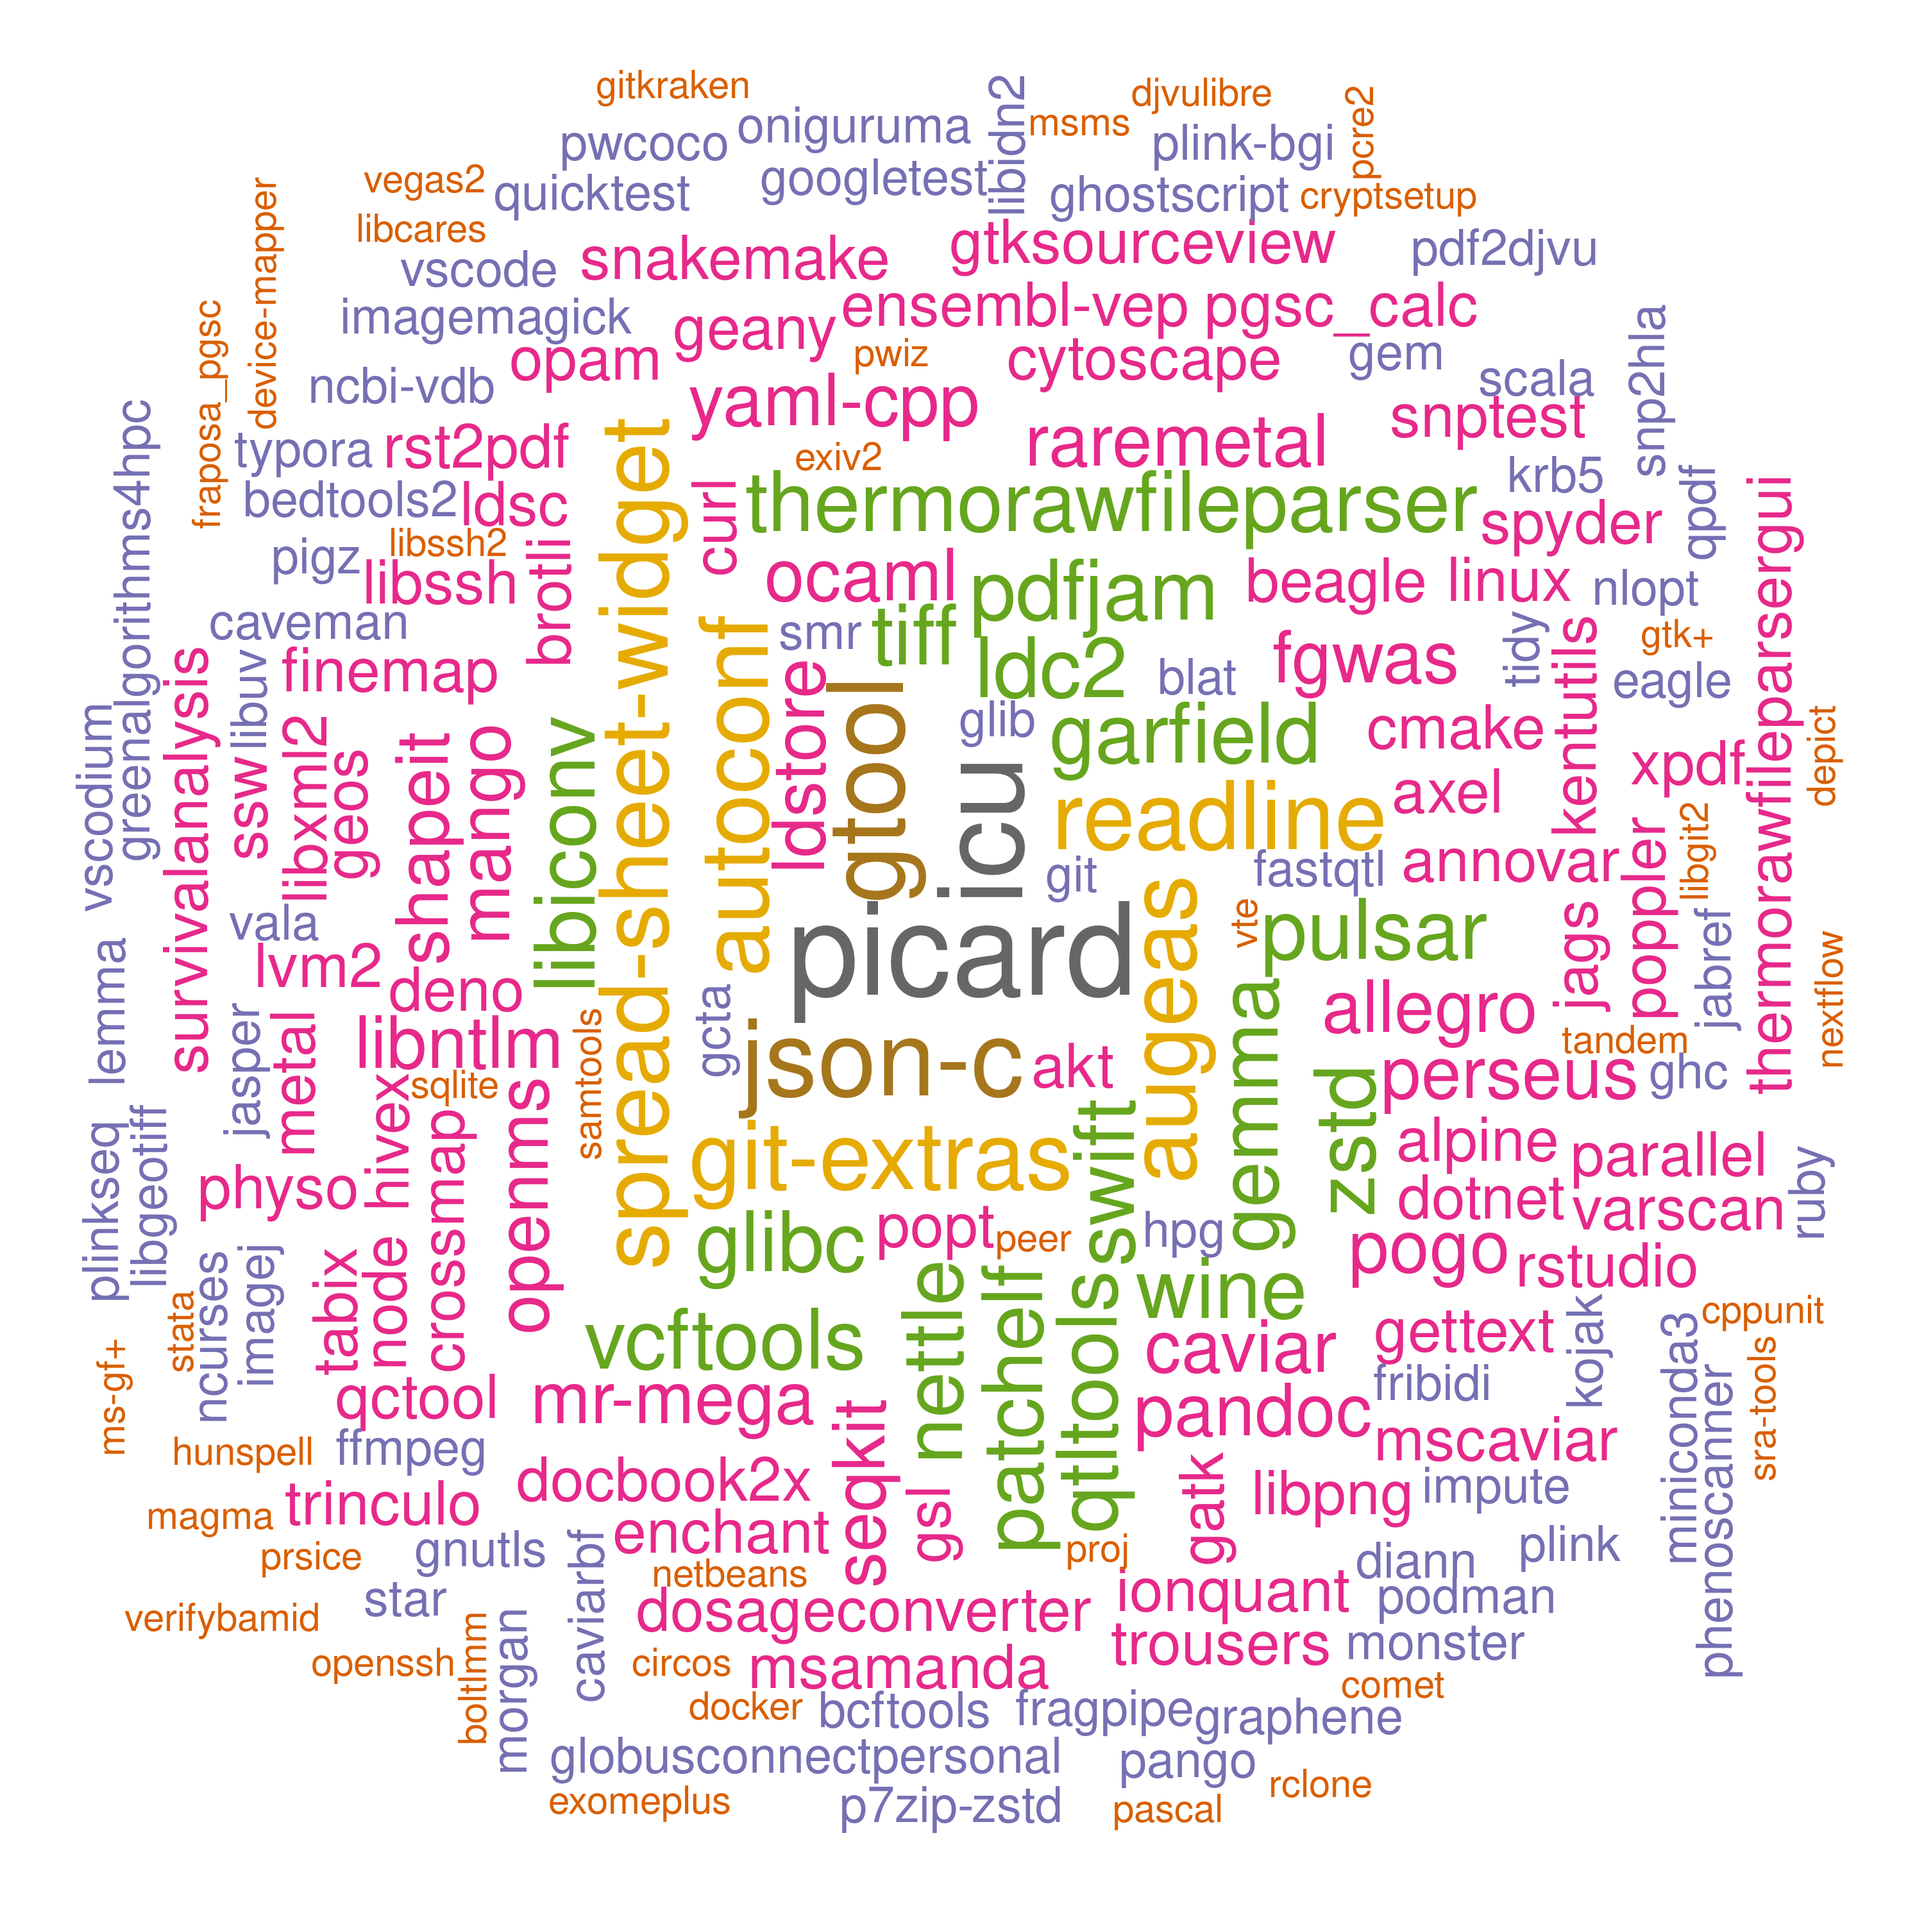
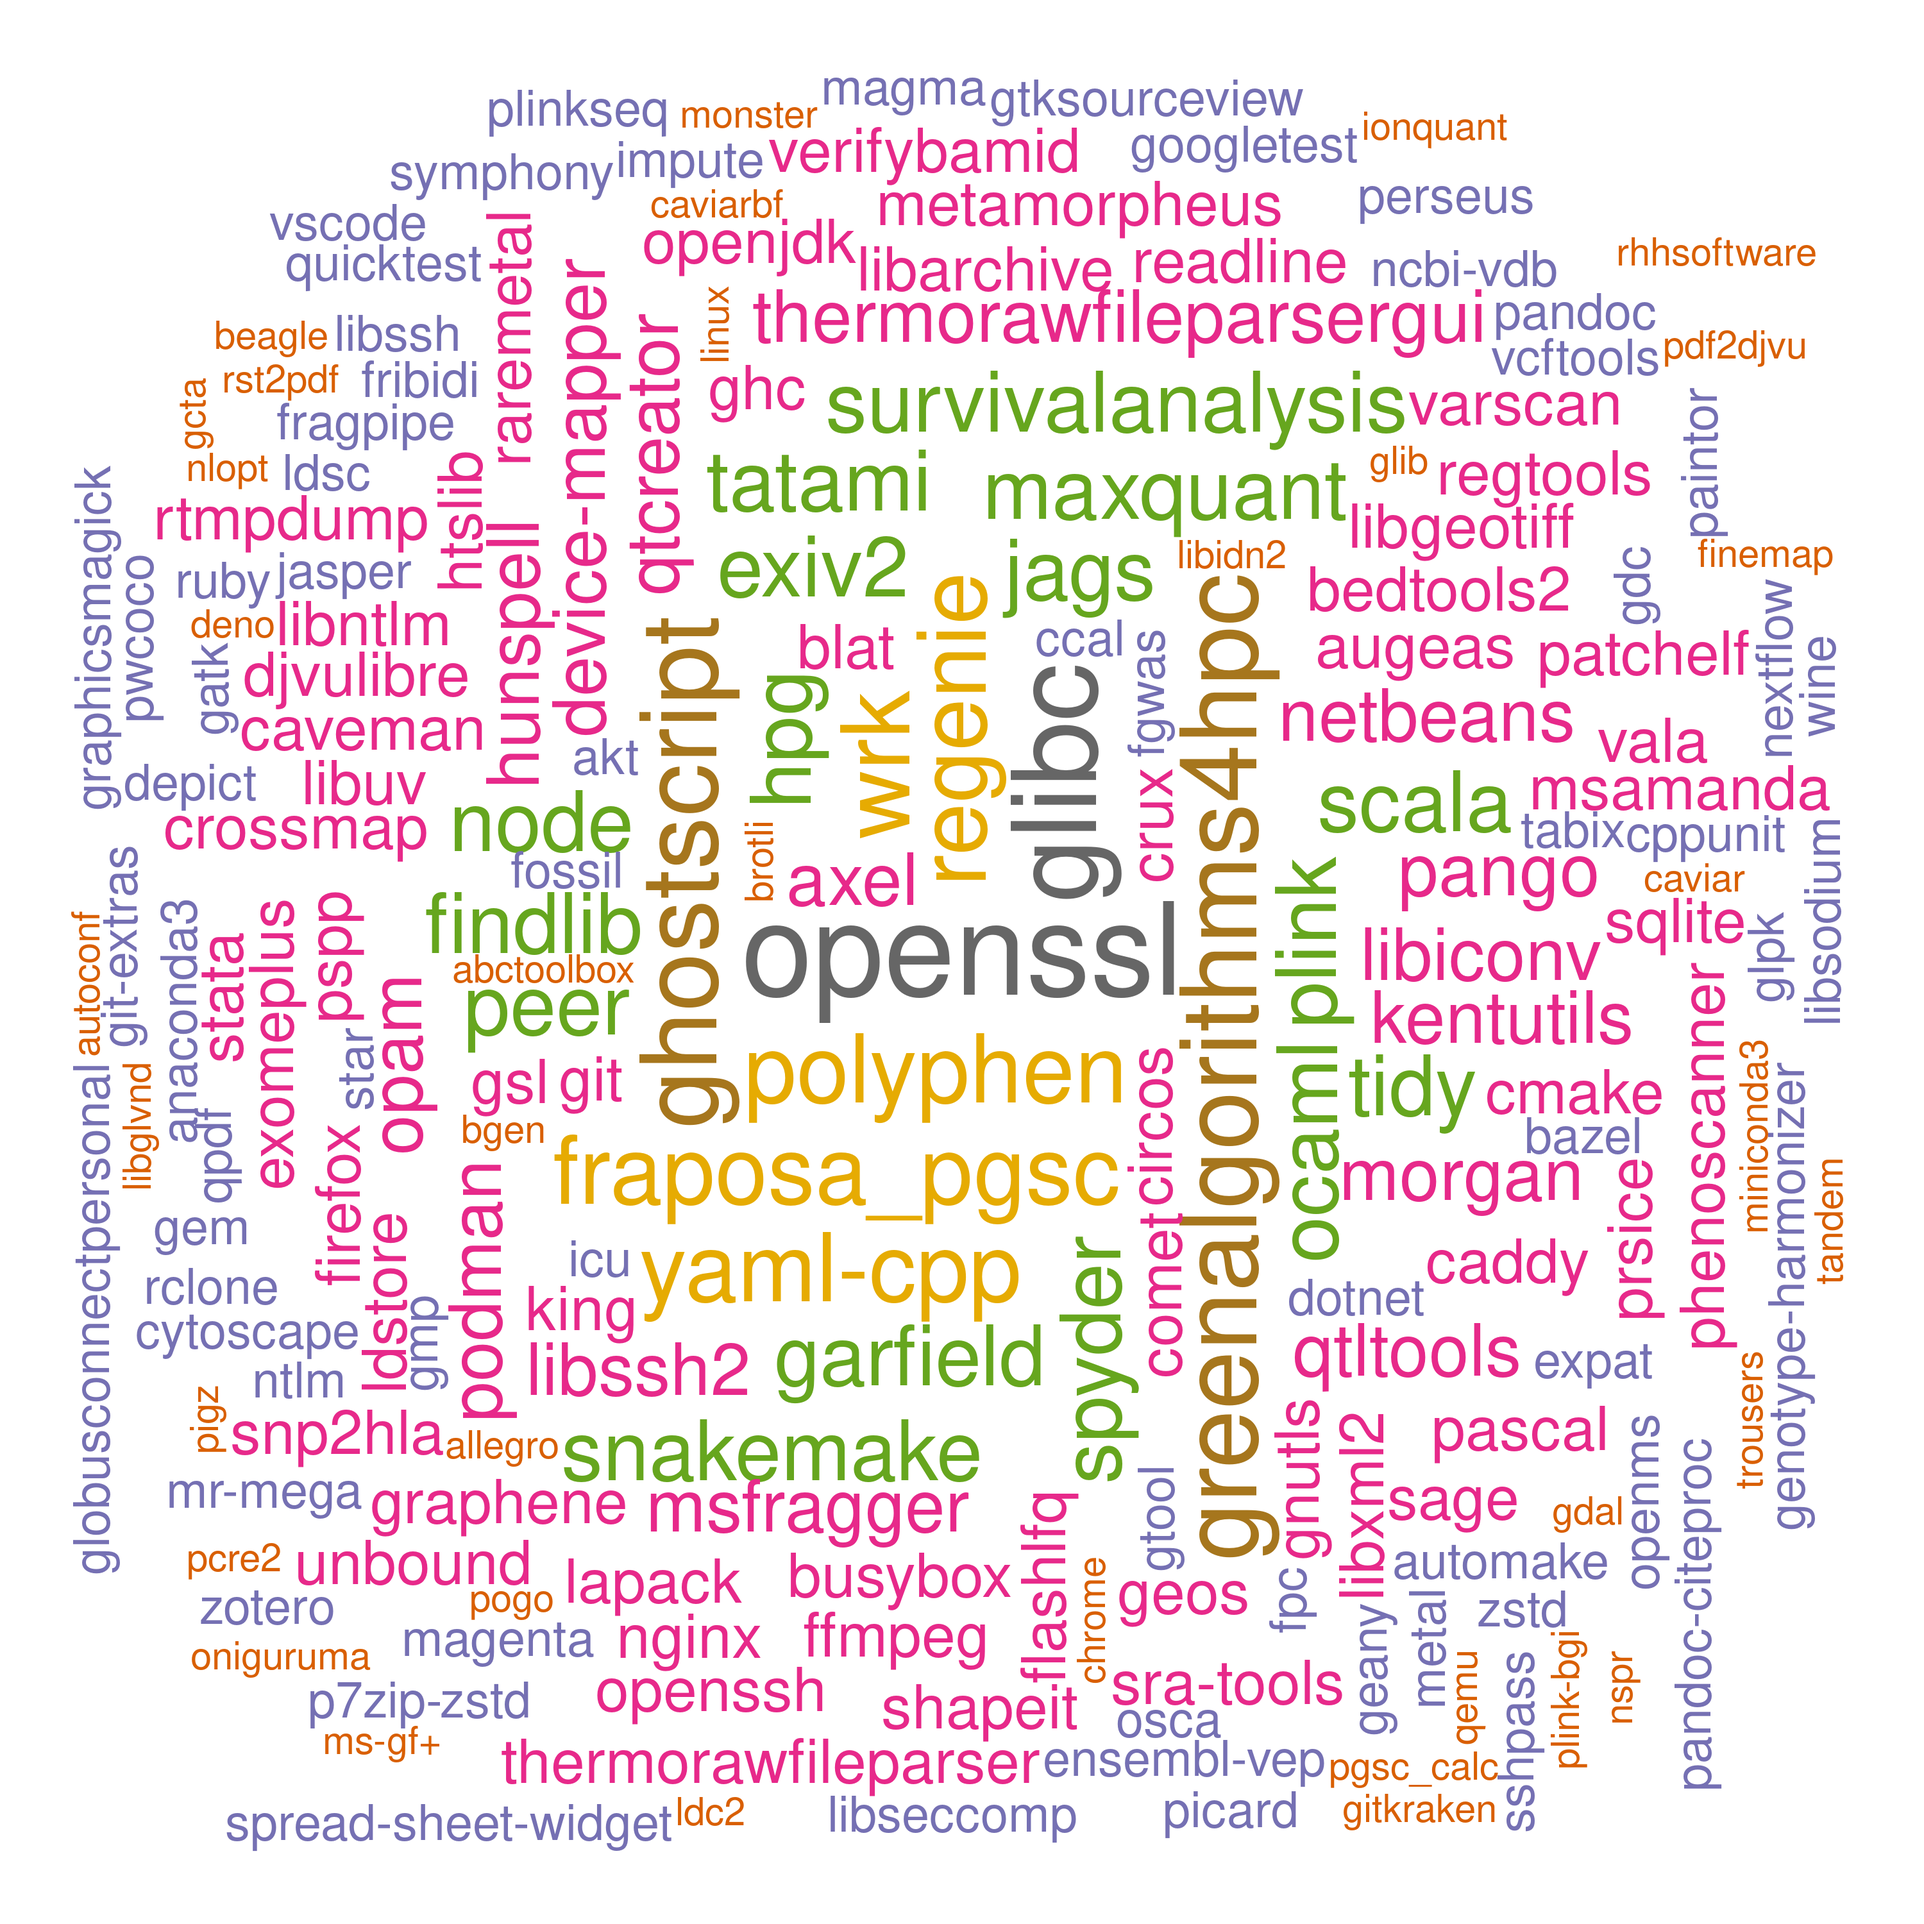
./

Changed region(s): [[0.031, 0.031, 0.961, 0.961], [0.93, 0.775, 0.961, 0.806]]

diff --git a/systems/ceuadmin.md b/systems/ceuadmin.md
@@ -22,70 +22,71 @@ The current list is as follows,
   [9] "autoconf"               "automake"               "axel"                   "bazel"
  [13] "bcftools"               "Beagle"                 "bedops"                 "bedtools2"
  [17] "bgen"                   "biobank"                "blat"                   "boltlmm"
- [21] "boost"                  "brotli"                 "busybox"                "CaVEMaN"
- [25] "CAVIAR"                 "CAVIARBF"               "ccal"                   "circos"
- [29] "citeproc"               "cmake"                  "comet"                  "cppunit"
- [33] "crossmap"               "crux"                   "cryptopp"               "cryptsetup"
- [37] "curl"                   "Cytoscape"              "deno"                   "DEPICT"
- [41] "device-mapper"          "diann"                  "DjVuLibre"              "docbook2X"
- [45] "docker"                 "DosageConverter"        "dotnet"                 "Eagle"
- [49] "enchant"                "ensembl-vep"            "exiv2"                  "exomeplus"
- [53] "expat"                  "FastQTL"                "fcGENE"                 "ffmpeg"
- [57] "fgwas"                  "findlib"                "finemap"                "FlashLFQ"
- [61] "fossil"                 "fpc"                    "FragPipe"               "fraposa_pgsc"
- [65] "freesurfer"             "fribidi"                "GARFIELD"               "gatk"
- [69] "gcta"                   "gdal"                   "gdc"                    "geany"
- [73] "GEM"                    "GEMMA"                  "Genotype-Harmonizer"    "geos"
- [77] "gettext"                "gh"                     "ghc"                    "ghostscript"
- [81] "git"                    "git-extras"             "GitKraken"              "glib"
- [85] "glibc"                  "globusconnectpersonal"  "glpk"                   "gmp"
- [89] "gnutls"                 "go"                     "googletest"             "graphene"
- [93] "GraphicsMagick"         "GreenAlgorithms4HPC"    "gsl"                    "gtk+"
- [97] "gtksourceview"          "gtool"                  "hivex"                  "hpg"
-[101] "htslib"                 "hunspell"               "icu"                    "ImageJ"
-[105] "ImageMagick"            "impute"                 "IonQuant"               "JabRef"
-[109] "JAGS"                   "jasper"                 "jq"                     "json-c"
-[113] "KentUtils"              "KING"                   "kojak"                  "krb5"
-[117] "lapack"                 "ldc2"                   "ldsc"                   "LDstore"
-[121] "LEMMA"                  "libarchive"             "libcares"               "libgeotiff"
-[125] "libgit2"                "libglvnd"               "libiconv"               "libidn2"
-[129] "libjpeg-turbo"          "libntlm"                "libpng"                 "libseccomp"
-[133] "libsodium"              "libssh"                 "libssh2"                "libuv"
-[137] "libxml2"                "libxslt"                "linux"                  "locuszoom"
-[141] "LVM2"                   "MAGENTA"                "magma"                  "Mango"
-[145] "MaxQuant"               "Mega2"                  "metal"                  "MetaMorpheus"
-[149] "Miniconda3"             "MONSTER"                "MORGAN"                 "MR-MEGA"
-[153] "msamanda"               "MsCAVIAR"               "MSFragger"              "MS-GF+"
-[157] "msms"                   "nano"                   "ncbi-vdb"               "ncurses"
-[161] "netbeans"               "nettle"                 "nextflow"               "NLopt"
-[165] "node"                   "nspr"                   "ntlm"                   "ocaml"
-[169] "oniguruma"              "opam"                   "openjdk"                "OpenMS"
-[173] "openssh"                "openssl"                "osca"                   "p7zip-zstd"
-[177] "PAINTOR"                "pandoc"                 "pandoc-citeproc"        "pango"
-[181] "parallel"               "Pascal"                 "patchelf"               "pcre2"
-[185] "pdf2djvu"               "pdfjam"                 "peer"                   "Perseus"
-[189] "pgsc_calc"              "phenoscanner"           "PhySO"                  "picard"
-[193] "pigz"                   "plink"                  "plink-bgi"              "plinkseq"
-[197] "podman"                 "PoGo"                   "polyphen"               "poppler"
-[201] "popt"                   "proj"                   "PRSice"                 "pspp"
-[205] "pulsar"                 "PWCoCo"                 "pwiz"                   "qctool"
-[209] "qemu"                   "qpdf"                   "qt"                     "qtcreator"
-[213] "QTLtools"               "quarto"                 "quicktest"              "R"
-[217] "raremetal"              "rclone"                 "readline"               "regenie"
-[221] "regtools"               "RHHsoftware"            "rst2pdf"                "rstudio"
-[225] "rtmpdump"               "ruby"                   "rust"                   "sage"
-[229] "samtools"               "Scala"                  "seqkit"                 "shapeit"
-[233] "singularity"            "SMR"                    "snakemake"              "SNP2HLA"
-[237] "snptest"                "spread-sheet-widget"    "spyder"                 "sqlite"
-[241] "sra-tools"              "sshpass"                "ssw"                    "STAR"
-[245] "stata"                  "SurvivalAnalysis"       "SurvivalKit"            "Swift"
-[249] "SYMPHONY"               "tabix"                  "tandem"                 "tatami"
-[253] "ThermoRawFileParser"    "ThermoRawFileParserGUI" "thunderbird"            "tidy"
-[257] "tiff"                   "trinculo"               "trousers"               "Typora"
-[261] "unbound"                "vala"                   "VarScan"                "vcftools"
-[265] "VEGAS2"                 "verifyBamID"            "VSCode"                 "VSCodium"
-[269] "vte"                    "wine"                   "xpdf"                   "yaml-cpp"
-[273] "Zotero"                 "zstd"
+ [21] "boost"                  "brotli"                 "busybox"                "caddy"
+ [25] "CaVEMaN"                "CAVIAR"                 "CAVIARBF"               "ccal"
+ [29] "chrome"                 "circos"                 "citeproc"               "cmake"
+ [33] "comet"                  "cppunit"                "crossmap"               "crux"
+ [37] "cryptopp"               "cryptsetup"             "curl"                   "Cytoscape"
+ [41] "deno"                   "DEPICT"                 "device-mapper"          "diann"
+ [45] "DjVuLibre"              "docbook2X"              "docker"                 "DosageConverter"
+ [49] "dotnet"                 "Eagle"                  "enchant"                "ensembl-vep"
+ [53] "exiv2"                  "exomeplus"              "expat"                  "FastQTL"
+ [57] "fcGENE"                 "ffmpeg"                 "fgwas"                  "findlib"
+ [61] "finemap"                "firefox"                "FlashLFQ"               "fossil"
+ [65] "fpc"                    "FragPipe"               "fraposa_pgsc"           "freesurfer"
+ [69] "fribidi"                "GARFIELD"               "gatk"                   "gcta"
+ [73] "gdal"                   "gdc"                    "geany"                  "GEM"
+ [77] "GEMMA"                  "Genotype-Harmonizer"    "geos"                   "gettext"
+ [81] "gh"                     "ghc"                    "ghostscript"            "git"
+ [85] "git-extras"             "GitKraken"              "glib"                   "glibc"
+ [89] "globusconnectpersonal"  "glpk"                   "gmp"                    "gnutls"
+ [93] "go"                     "googletest"             "graphene"               "GraphicsMagick"
+ [97] "GreenAlgorithms4HPC"    "gsl"                    "gtk+"                   "gtksourceview"
+[101] "gtool"                  "hivex"                  "hpg"                    "htslib"
+[105] "hunspell"               "icu"                    "ImageJ"                 "ImageMagick"
+[109] "impute"                 "IonQuant"               "JabRef"                 "JAGS"
+[113] "jasper"                 "jq"                     "json-c"                 "KentUtils"
+[117] "KING"                   "kojak"                  "krb5"                   "lapack"
+[121] "ldc2"                   "ldsc"                   "LDstore"                "LEMMA"
+[125] "libarchive"             "libcares"               "libgeotiff"             "libgit2"
+[129] "libglvnd"               "libiconv"               "libidn2"                "libjpeg-turbo"
+[133] "libntlm"                "libpng"                 "libseccomp"             "libsodium"
+[137] "libssh"                 "libssh2"                "libuv"                  "libxml2"
+[141] "libxslt"                "linux"                  "locuszoom"              "LVM2"
+[145] "MAGENTA"                "magma"                  "Mango"                  "MaxQuant"
+[149] "Mega2"                  "metal"                  "MetaMorpheus"           "Miniconda3"
+[153] "MONSTER"                "MORGAN"                 "MR-MEGA"                "msamanda"
+[157] "MsCAVIAR"               "MSFragger"              "MS-GF+"                 "msms"
+[161] "nano"                   "ncbi-vdb"               "ncurses"                "netbeans"
+[165] "nettle"                 "nextflow"               "nginx"                  "NLopt"
+[169] "node"                   "nspr"                   "ntlm"                   "ocaml"
+[173] "oniguruma"              "opam"                   "openjdk"                "OpenMS"
+[177] "openssh"                "openssl"                "osca"                   "p7zip-zstd"
+[181] "PAINTOR"                "pandoc"                 "pandoc-citeproc"        "pango"
+[185] "parallel"               "Pascal"                 "patchelf"               "pcre2"
+[189] "pdf2djvu"               "pdfjam"                 "peer"                   "Perseus"
+[193] "pgsc_calc"              "phenoscanner"           "PhySO"                  "picard"
+[197] "pigz"                   "plink"                  "plink-bgi"              "plinkseq"
+[201] "podman"                 "PoGo"                   "polyphen"               "poppler"
+[205] "popt"                   "proj"                   "PRSice"                 "pspp"
+[209] "pulsar"                 "PWCoCo"                 "pwiz"                   "qctool"
+[213] "qemu"                   "qpdf"                   "qt"                     "qtcreator"
+[217] "QTLtools"               "quarto"                 "quicktest"              "R"
+[221] "raremetal"              "rclone"                 "readline"               "regenie"
+[225] "regtools"               "RHHsoftware"            "rst2pdf"                "rstudio"
+[229] "rtmpdump"               "ruby"                   "rust"                   "sage"
+[233] "samtools"               "Scala"                  "seqkit"                 "shapeit"
+[237] "singularity"            "SMR"                    "snakemake"              "SNP2HLA"
+[241] "snptest"                "spread-sheet-widget"    "spyder"                 "sqlite"
+[245] "sra-tools"              "sshpass"                "ssw"                    "STAR"
+[249] "stata"                  "SurvivalAnalysis"       "SurvivalKit"            "Swift"
+[253] "SYMPHONY"               "tabix"                  "tandem"                 "tatami"
+[257] "ThermoRawFileParser"    "ThermoRawFileParserGUI" "thunderbird"            "tidy"
+[261] "tiff"                   "trinculo"               "trousers"               "Typora"
+[265] "unbound"                "vala"                   "VarScan"                "vcftools"
+[269] "VEGAS2"                 "verifyBamID"            "VSCode"                 "VSCodium"
+[273] "vte"                    "wine"                   "wrk"                    "xpdf"
+[277] "yaml-cpp"               "Zotero"                 "zstd"
 ```
 
 These are wrapped up as :star::star::star: **[modules](https://modules.readthedocs.io/en/latest/index.html)** :star::star::star:.
